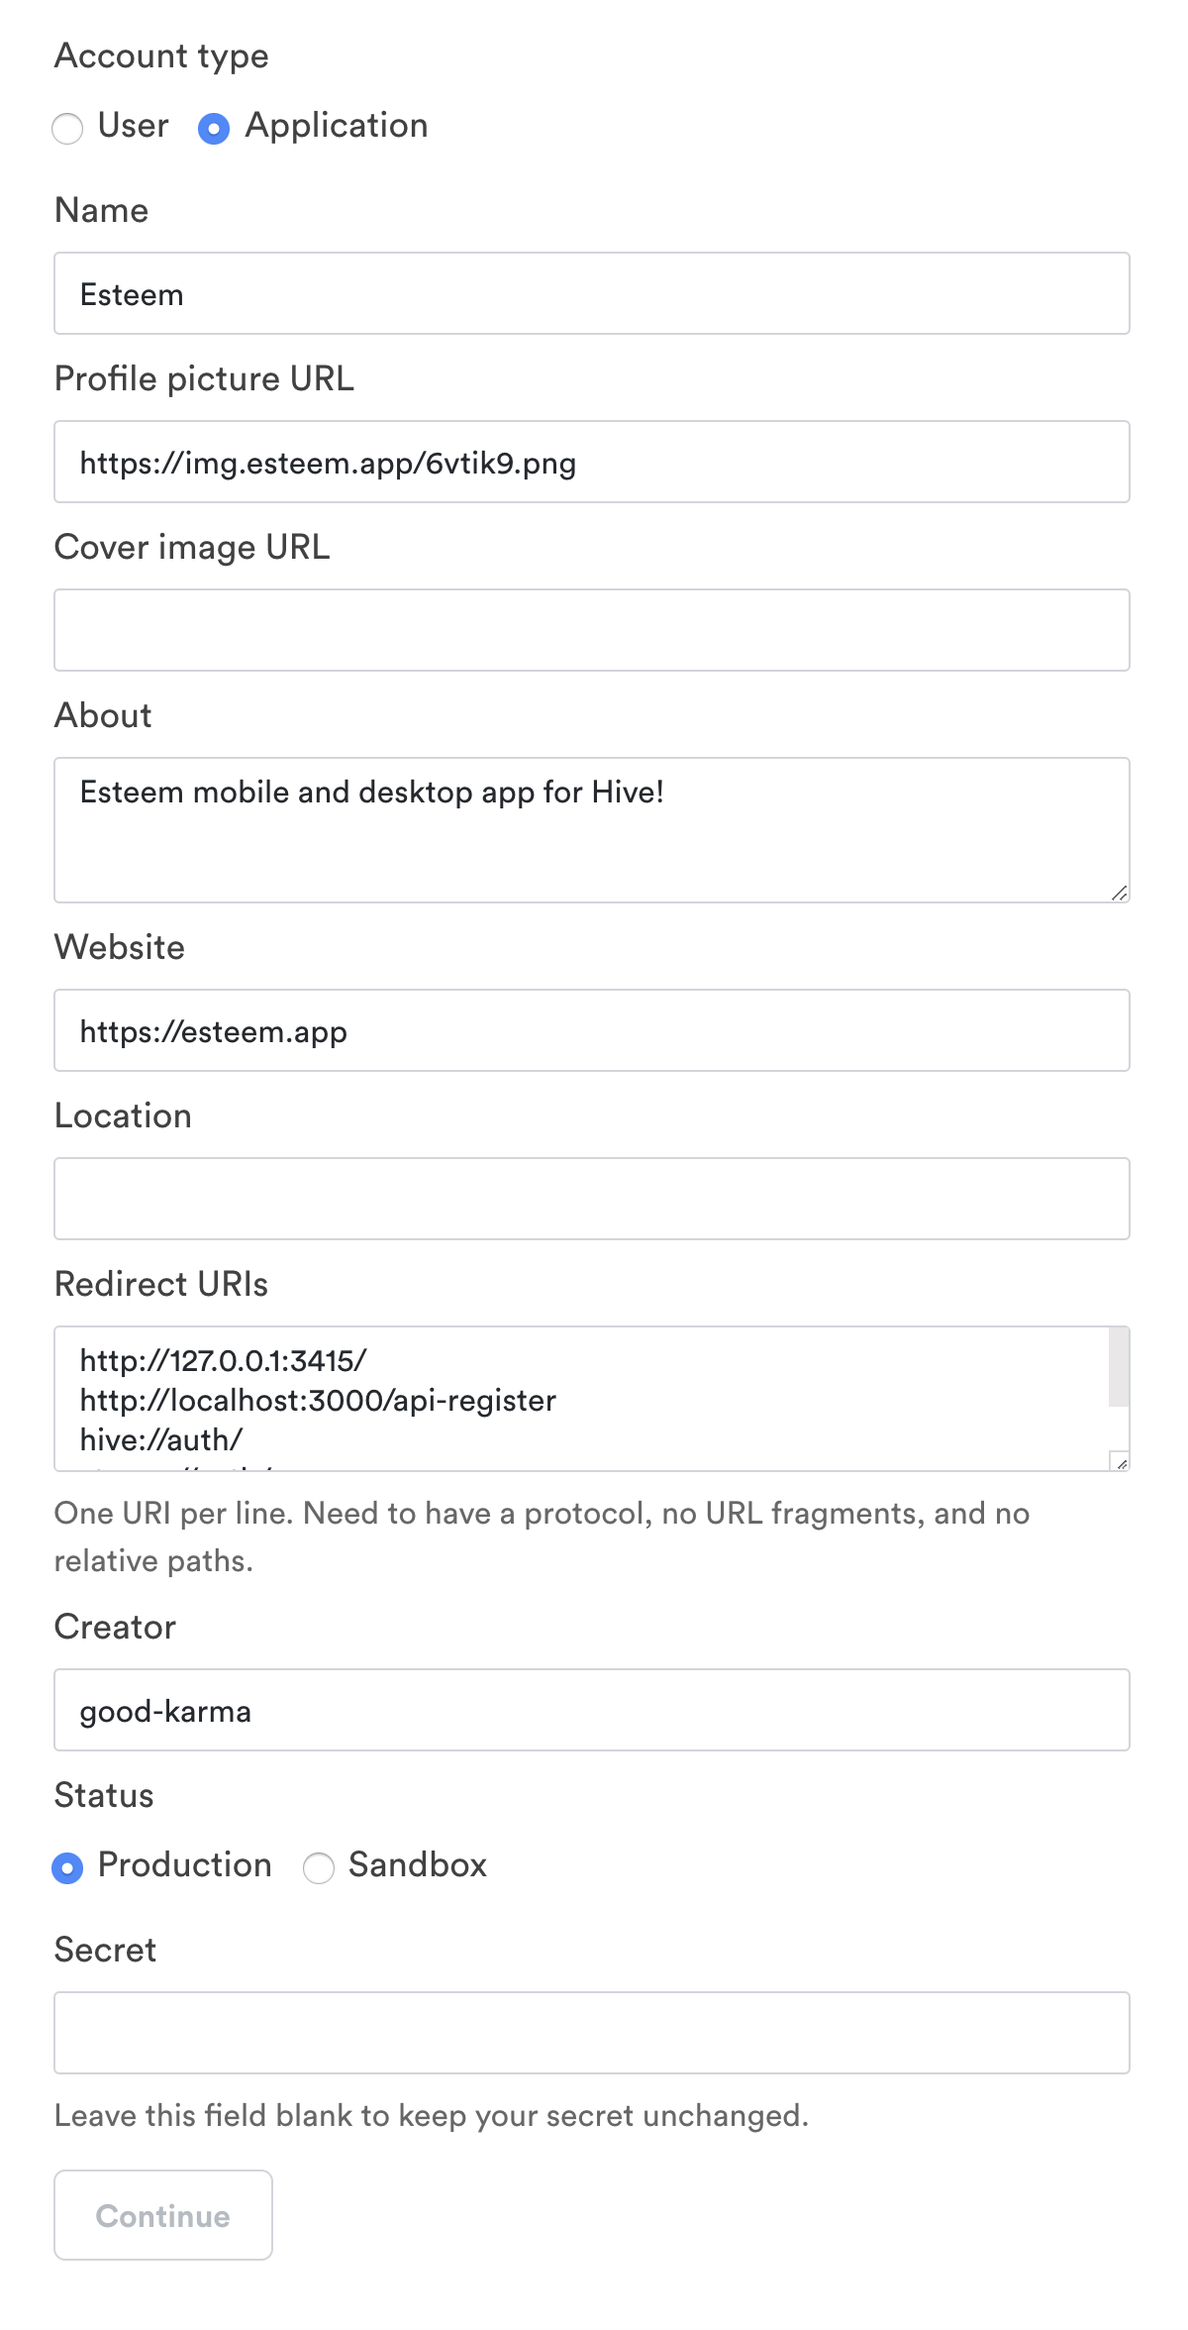
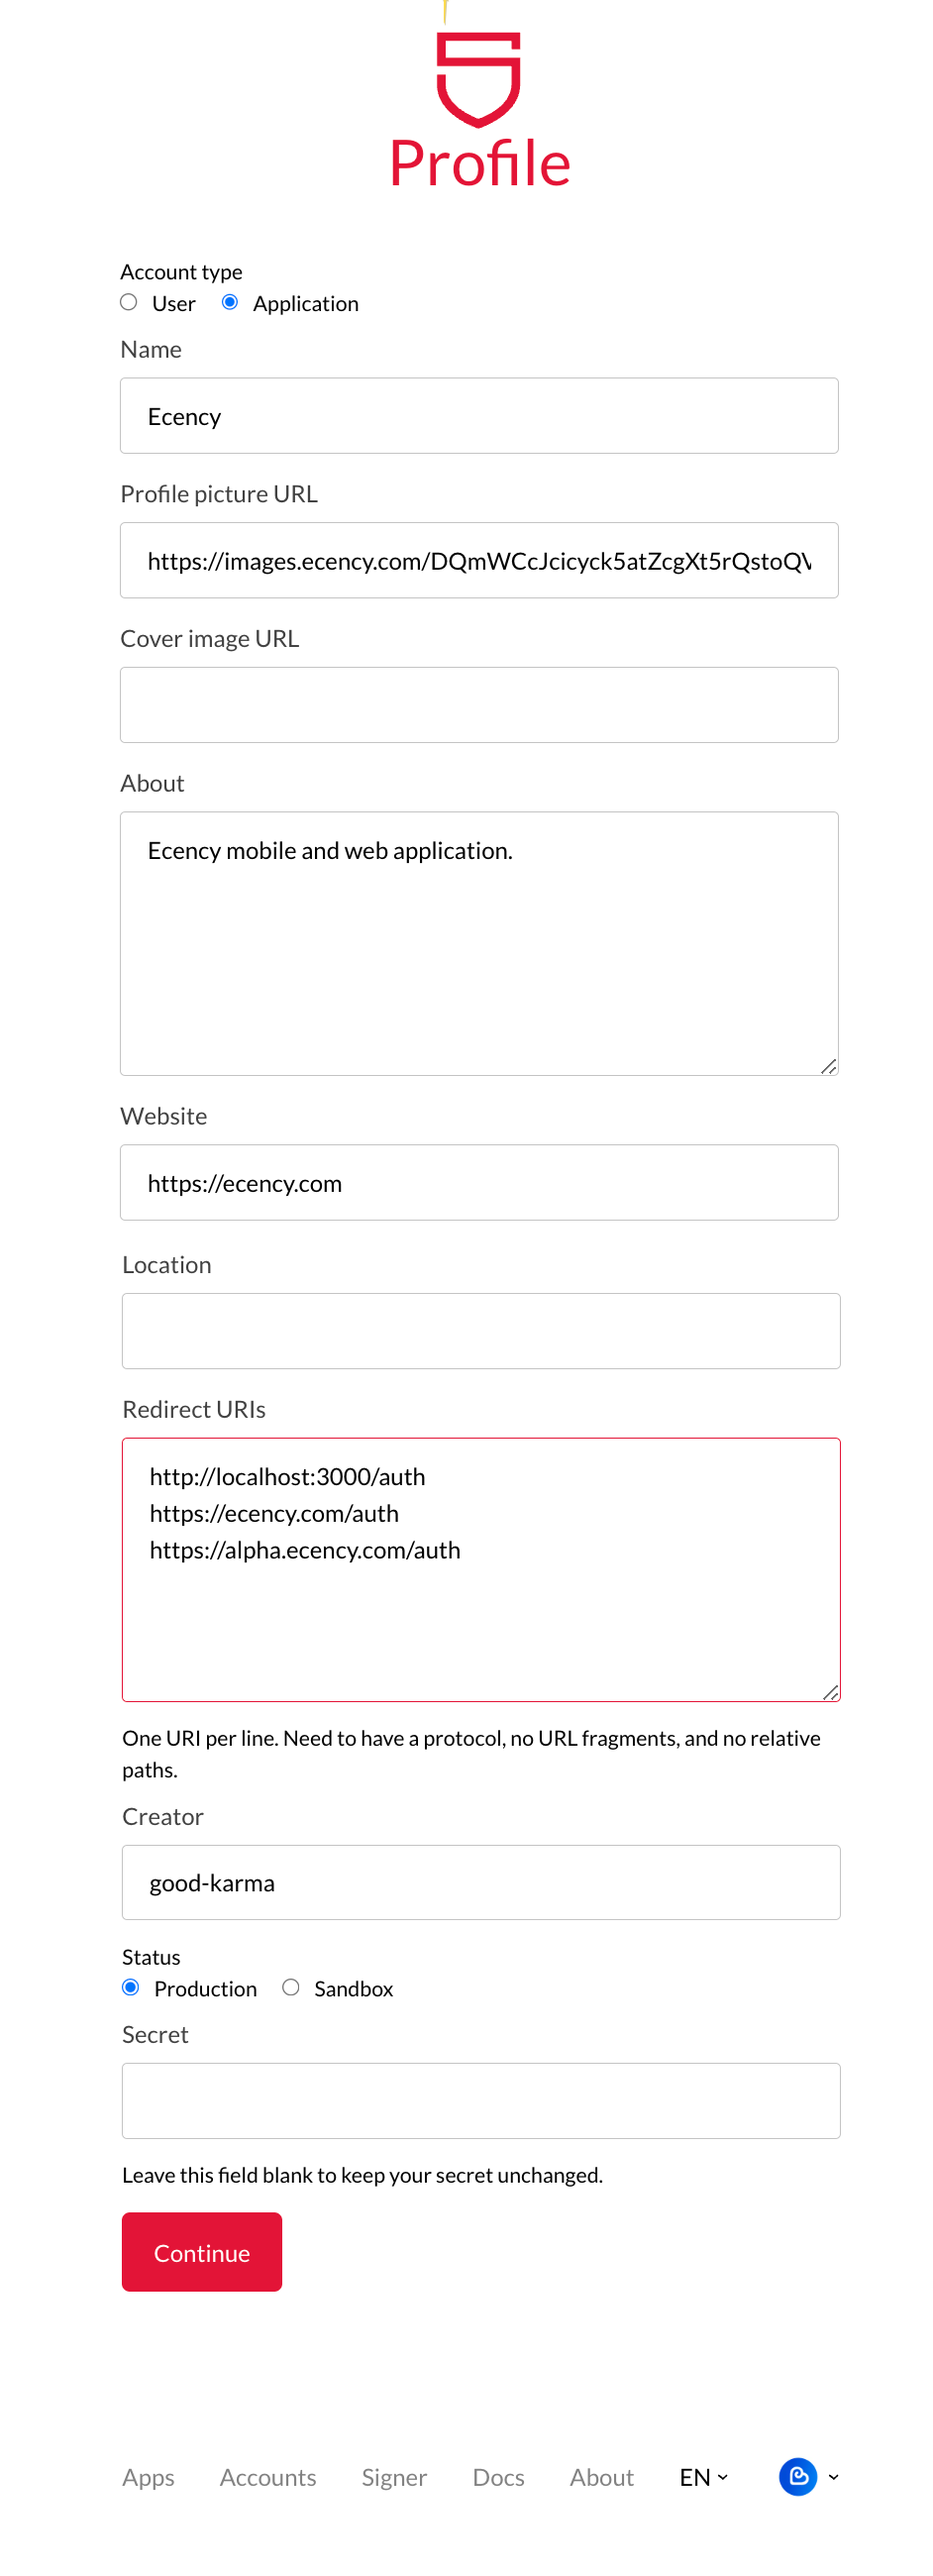
fixes and corrections

diff --git a/_tutorials-javascript/hivesigner.md b/_tutorials-javascript/hivesigner.md
@@ -36,26 +36,26 @@ Learn more about [Hivesigner operations here](https://github.com/ecency/hivesign
 
 #### 1. Hivesigner Dashboard<a name="dashboard"></a>
 
-Hivesigner is unified authentification system built on top of Hive.
+Hivesigner is unified OAuth2 authentication system built on top of Hive.
 Layer to ensure easy access and setup for all application developers as well as secure way for users to interact with Hive apps.
 
 Setting up Hivesigner in your app is straight-forward process and never been this easy.
 
 Here are the steps that helps you to setup new app:
 
-1a. Visit [Hivesigner Dashboard](https://hivesigner.com/profile) and login with your Hive credentials for your app
+1a. Visit [Hivesigner Dashboard](https://hivesigner.com/profile) and login with your Hive credentials for **your app account**
 
-![hivesigner_login](https://gitlab.syncad.com/hive/devportal/-/raw/master/tutorials/javascript/02_hivesigner/images/hivesigner_login.png)
+<img alt="hivesigner_login" height="auto" src="https://gitlab.syncad.com/hive/devportal/-/raw/master/tutorials/javascript/02_hivesigner/images/hivesigner_login.png" width="70%"/>
 
 1b. You will see Account type, User and Application section, in Application section fill out details of App
 
-![hivesigner_dashboard](https://gitlab.syncad.com/hive/devportal/-/raw/master/tutorials/javascript/02_hivesigner/images/account_type_application.png)
+<img alt="hivesigner_dashboard" height="auto" src="https://gitlab.syncad.com/hive/devportal/-/raw/master/tutorials/javascript/02_hivesigner/images/account_type_application.png" width="70%"/>
 
 1c. Give your app name, description, icon image link, website (if available) and Redirect URI(s)
 
-Here is an example of [Esteem](https://esteem.app) form to give you idea how to fill form correctly.
+Here is an example of [Ecency](https://ecency.com) form to give you idea how to fill form correctly.
 
-![hivesigner_myapps](https://gitlab.syncad.com/hive/devportal/-/raw/master/tutorials/javascript/02_hivesigner/images/hivesigner_myapp.png)
+<img alt="hivesigner_myapps" height="auto" src="https://gitlab.syncad.com/hive/devportal/-/raw/master/tutorials/javascript/02_hivesigner/images/hivesigner_myapp.png" width="70%"/>
 
 Application name and description should give users clear understanding what permissions it requires and what is the purpose of the app.
 
@@ -80,7 +80,7 @@ Now that `hivesigner` is initialized we can start authentication and perform sim
 
 #### 3. Login URL<a name="login-url"></a>
 
-> `getLoginURL` function you see on the right side, returns login URL which will redirect user to sign in with Hivesigner screen. Successfull login will redirect user to Redirect URI or `callbackURL`. Result of successful login will return `access_token`, `expires_in` and `username` information, which application will start utilizing.
+> `getLoginURL` function you see on the right side, returns login URL which will redirect user to sign in with Hivesigner screen. Successfull login will redirect user to Redirect URI or `callbackURL`. Result of successful login will return `access_token`, `expires_in` and `username` information, which application will start utilizing. Make sure to catch access_token parameter from callback URL and store locally until expiry, after expiry reached, request user to relogin to issue new access token. 
 
 #### 4. Request token<a name="request-token"></a>
 
@@ -102,6 +102,8 @@ Now that `hivesigner` is initialized we can start authentication and perform sim
 > In order to logout, you can use `revokeToken` function from hivesigner.
 
 **That's all there is to it.**
+
+To learn more about [Hivesigner SDK](https://github.com/ecency/hivesigner-sdk) or integration guide check [official Hivesigner docs](https://docs.hivesigner.com).
 
 ### To Run the tutorial
 

diff --git a/_quickstart/authentication.md b/_quickstart/authentication.md
@@ -1,6 +1,6 @@
 ---
 title: Authentication
-position: 3
+position: 4
 exclude: true
 ---
 #### User authentication
@@ -32,7 +32,12 @@ Overview of steps that user experiences during Login/Authentication in your webs
 3. Access token used by website or application to sign and broadcast transactions on blockchain.
 
 For more detailed instruction please follow [HiveSigner documentation](https://docs.hivesigner.com/).
-HiveSigner SDK: [https://www.npmjs.com/package/hivesigner](https://www.npmjs.com/package/hivesigner) 
+
+HiveSigner SDK: [https://www.npmjs.com/package/hivesigner](https://www.npmjs.com/package/hivesigner)
+
+HiveSigner tutorial: [JS/Node.js]({{ '/tutorials-javascript/hivesigner.html' | relative_url }})
+
+----
 
 #### HiveKeychain
 
@@ -50,7 +55,12 @@ Hive Keychain is an extension for accessing Hive-enabled distributed application
 3. Signature used from website/application to sign transactions going forward, every transaction should be signed by user. 
 
 For more detailed instruction please follow [HiveKeychain documentation](https://github.com/hive-keychain/hive-keychain-extension/blob/master/documentation/README.md).
+
 HiveKeychain SDK: [https://www.npmjs.com/package/keychain-sdk](https://www.npmjs.com/package/keychain-sdk)
+
+Keychain tutorial: [JS/Node.js]({{ '/tutorials-javascript/hivesigner.html' | relative_url }})
+
+----
 
 #### HiveAuth
 

diff --git a/_tutorials-javascript/client_signing.md b/_tutorials-javascript/client_signing.md
@@ -31,7 +31,7 @@ Client side signing of transaction is yet another way of interacting with Hive b
 
 {% include local-testnet.html %}
 
-Testnet and Production networks only differ with few settings which helps developers to switch their application from testnet to production. One of these settings is `addressPrefix` - string that is defined and will be in front of every public address on that chain/network. Another one is `chainId` - id of that network. By defining those parameters we are selecting Testnet and connecting to publicly available server with help of `@hivechain/dhive` library. First few lines of code in `public/app.js` gives you example of connection to different networks, testnet and production.
+Testnet and Production networks only differ with few settings which helps developers to switch their application from testnet to production. One of these settings is `addressPrefix` - string that is defined and will be in front of every public address on that chain/network. Another one is `chainId` - id of that network. By defining those parameters we are selecting Testnet and connecting to publicly available server with help of `@hiveio/dhive` library. First few lines of code in `public/app.js` gives you example of connection to different networks, testnet and production.
 
 ```javascript
 opts.addressPrefix = 'TST';

diff --git a/_quickstart/choose_library.md b/_quickstart/choose_library.md
@@ -1,6 +1,6 @@
 ---
 title: SDK Libraries
-position: 4
+position: 5
 exclude: true
 ---
 #### Software development kits
@@ -17,17 +17,24 @@ which could be beneficial for your Hive project.
 
 Pure JavaScript Hive crypto library for node.js and browsers. Can be used to construct, sign and broadcast transactions in JavaScript.
 
+[`@hiveio/hive-js`](https://www.npmjs.com/package/@hiveio/hive-js)
+
+
 ---
 
 **DHive** - [https://gitlab.syncad.com/hive/dhive](https://gitlab.syncad.com/hive/dhive)
 
-A Typescript Hive crypto library for node.js and browsers.
+A Typescript Hive crypto library for node.js and browsers. Can be used to construct, sign and broadcast transactions in JavaScript.
+
+[`@hiveio/dhive`](https://www.npmjs.com/package/@hiveio/hive-js)
 
 ---
 
-**Hive-TX-JS** - [https://github.com/mahdiyari/hive-tx-js](https://github.com/mahdiyari/hive-tx-js)
+**Hive-TX** - [https://github.com/mahdiyari/hive-tx-js](https://github.com/mahdiyari/hive-tx-js)
 
 Lightweight JavaScript library for creating and signing transactions.  Works with frameworks like Nativescript.  This library is a solution to such cases when other libraries are not working.  And also an alternative for *only* creating, signing, and broadcasting transactions.
+
+[`hive-tx`](https://www.npmjs.com/package/hive-tx)
 
 ---
 

diff --git a/_tutorials-javascript/blog_feed.md b/_tutorials-javascript/blog_feed.md
@@ -11,7 +11,7 @@ This tutorial pulls a list of the most recent five user's posts from the blockch
 
 ## Intro
 
-Tutorial is demonstrates the typical process of fetching account blog posts. It is quite useful if you want to embedd your blog posts on your website these tutorial will help you achieve that goal as well. This tutorial will explain and show you how to access the **Hive** blockchain using the [@hivechain/dhive](https://gitlab.syncad.com/hive/dhive) library to build a basic blog list of posts filtered by a _tag_
+Tutorial is demonstrates the typical process of fetching account blog posts. It is quite useful if you want to embedd your blog posts on your website these tutorial will help you achieve that goal as well. This tutorial will explain and show you how to access the **Hive** blockchain using the [@hiveio/dhive](https://gitlab.syncad.com/hive/dhive) library to build a basic blog list of posts filtered by a _tag_
 
 Also see:
 * [get_discussions_by_blog]({{ '/apidefinitions/#tags_api.get_discussions_by_blog' | relative_url }})

diff --git a/_tutorials-javascript/getting_started.md b/_tutorials-javascript/getting_started.md
@@ -7,7 +7,7 @@ canonical_url: getting_started.html
 ---
 Full, runnable src of these tutorials can be downloaded as part of: [tutorials/javascript](https://gitlab.syncad.com/hive/devportal/-/tree/master/tutorials/javascript) (or download just the JavaScript tutorials: [devportal-master-tutorials-javascript.zip](https://gitlab.syncad.com/hive/devportal/-/archive/master/devportal-master.zip?path=tutorials/javascript)).
 
-For Javascript tutorials, we will use the opensource library [@hivechain/dhive](https://gitlab.syncad.com/hive/dhive).
+For Javascript tutorials, we will use the opensource library [@hiveio/dhive](https://gitlab.syncad.com/hive/dhive).
 
 ### Node.js
 

diff --git a/_quickstart/accounts.md b/_quickstart/accounts.md
@@ -1,0 +1,12 @@
+---
+title: Accounts
+position: 3
+exclude: true
+---
+
+On Hive, each account is identifiable by its unique username, as maximum of 16 bytes, characters.
+Accounts are created by existing users or services who utilize blockchain resources to assign public keys to the username.
+
+You can find some of the signup/onboarding services on this page, [https://signup.hive.io](https://signup.hive.io) and claim your unique username now.
+
+

diff --git a/_quickstart/fetch_broadcast.md b/_quickstart/fetch_broadcast.md
@@ -1,6 +1,6 @@
 ---
 title: Get and Set
-position: 5
+position: 6
 exclude: true
 ---
 #### Fetching data
